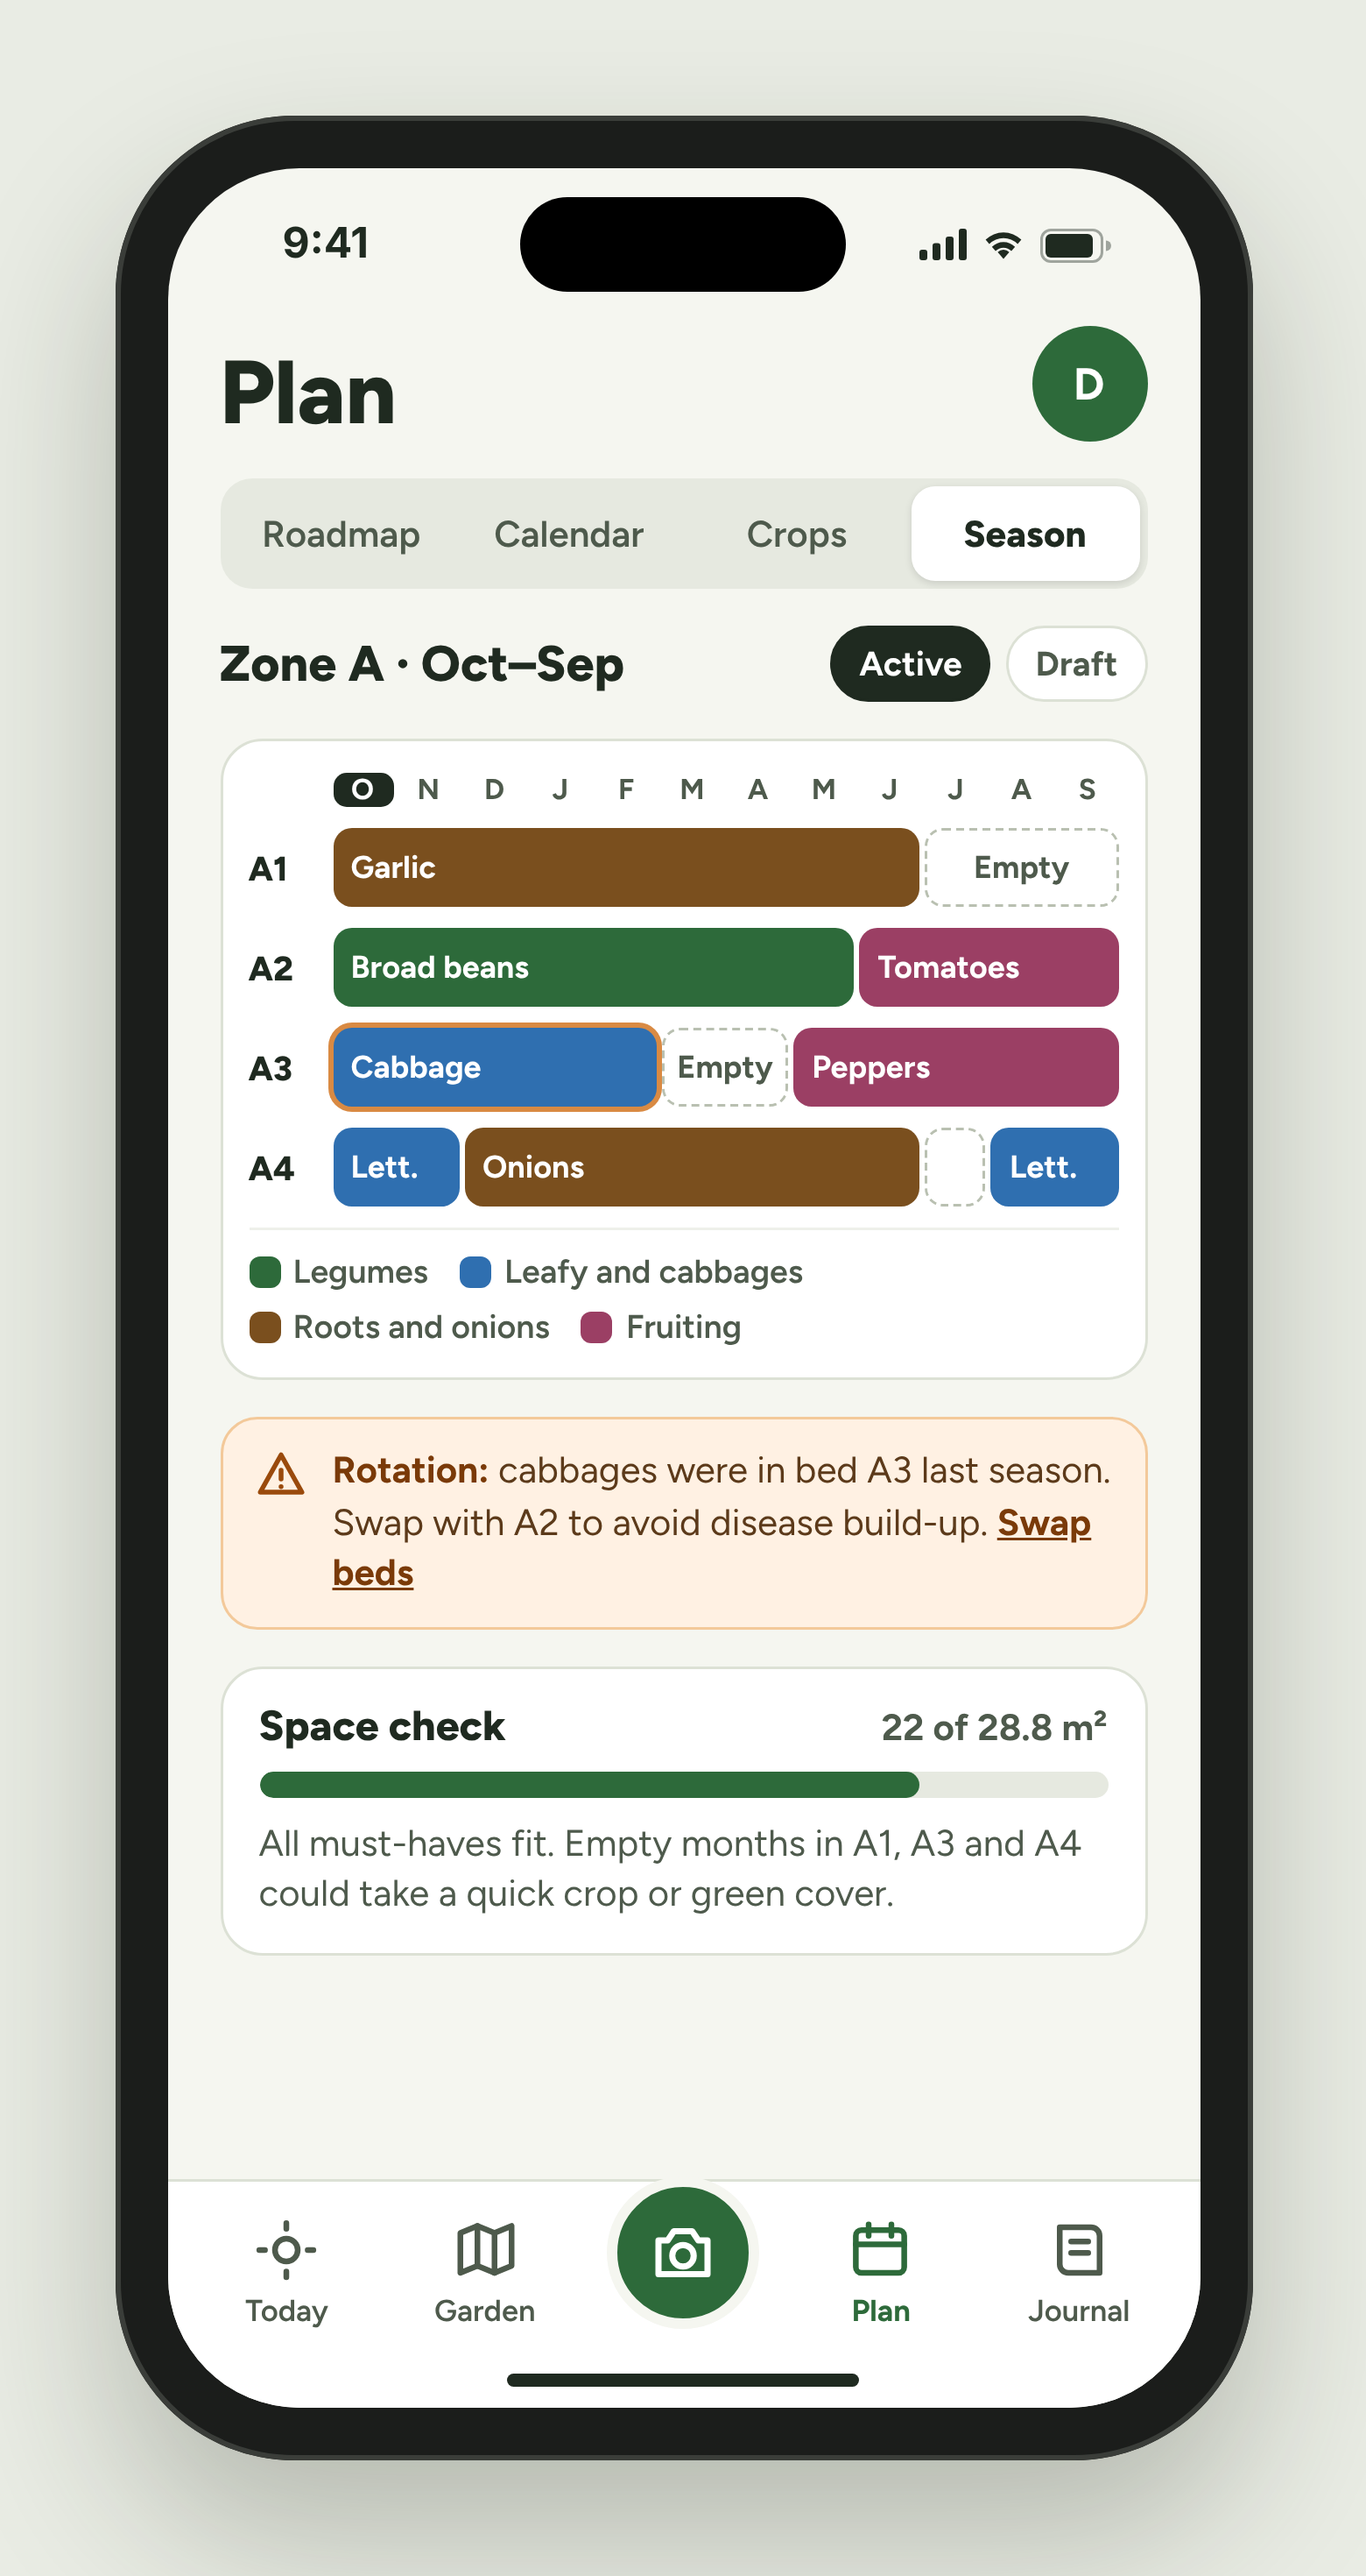
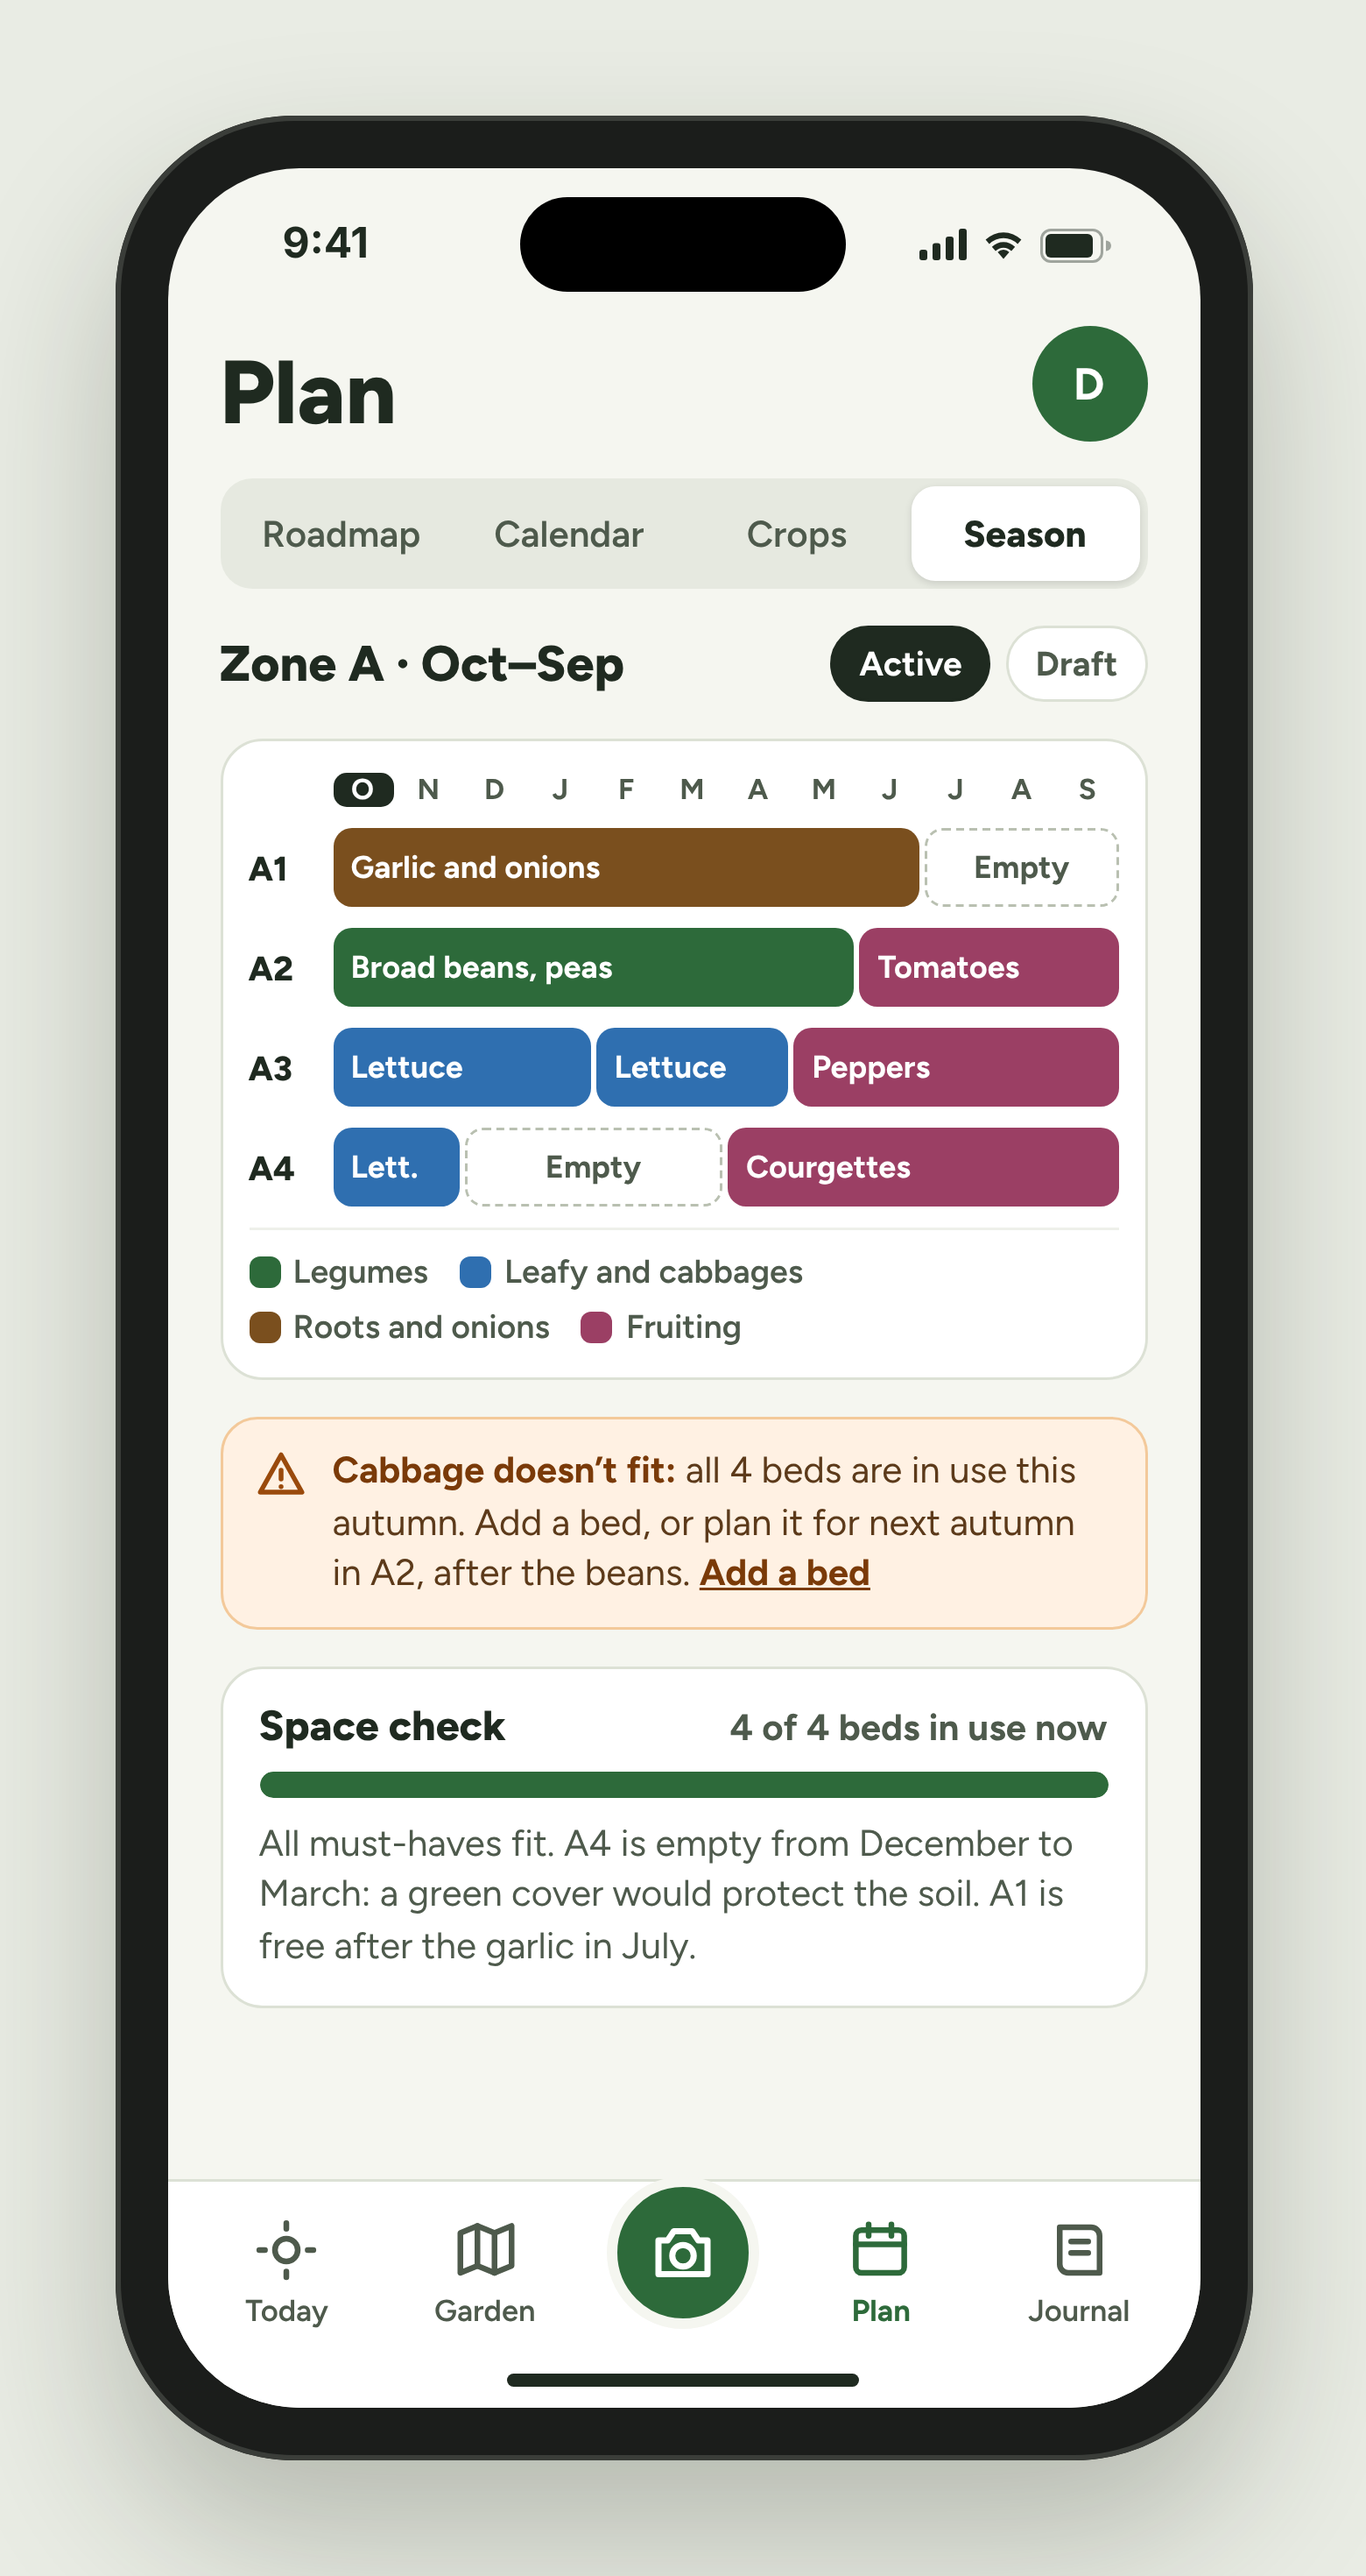
Design E6 season planner: bed timeline matches the garden, cabbage space warning, full space bar
Claude-Session: https://claude.ai/code/session_015NynAjU4naPZwzmeuGazot

diff --git a/design/source/E6-season-planner.html b/design/source/E6-season-planner.html
@@ -36,7 +36,7 @@
   .warn b { color: #7A3A08; }
   .space { background: #fff; border: 1px solid var(--line); border-radius: 16px; padding: 12px 14px; display: flex; flex-direction: column; gap: 8px; }
   .meter { height: 10px; border-radius: 5px; background: #E6E9E0; overflow: hidden; }
-  .meter i { display: block; height: 100%; width: 78%; background: var(--green); border-radius: 5px; }
+  .meter i { display: block; height: 100%; width: 100%; background: var(--green); border-radius: 5px; }
   .tabbar { position: absolute; bottom: 0; left: 0; right: 0; background: #fff; border-top: 1px solid var(--line); padding: 8px 8px 30px; display: grid; grid-template-columns: repeat(5, minmax(0, 1fr)); align-items: end; z-index: 45; }
   .tab { color: var(--muted); display: flex; flex-direction: column; align-items: center; gap: 3px; font-size: 11.5px; font-weight: 600; min-height: 48px; justify-content: flex-end; }
   .tab.on { color: var(--green); font-weight: 700; }
@@ -68,20 +68,19 @@
     <div class="gantt">
       <div class="grow mh"><span></span><span class="now">O</span><span>N</span><span>D</span><span>J</span><span>F</span><span>M</span><span>A</span><span>M</span><span>J</span><span>J</span><span>A</span><span>S</span></div>
       <div class="grow"><span class="bed">A1</span>
-        <span class="bar roo" style="grid-column: 2 / 11">Garlic</span>
+        <span class="bar roo" style="grid-column: 2 / 11">Garlic and onions</span>
         <span class="empty" style="grid-column: 11 / 14">Empty</span></div>
       <div class="grow"><span class="bed">A2</span>
-        <span class="bar leg" style="grid-column: 2 / 10">Broad beans</span>
+        <span class="bar leg" style="grid-column: 2 / 10">Broad beans, peas</span>
         <span class="bar fru" style="grid-column: 10 / 14">Tomatoes</span></div>
       <div class="grow"><span class="bed">A3</span>
-        <span class="bar bra" style="grid-column: 2 / 7; box-shadow: 0 0 0 2px #D98A43">Cabbage</span>
-        <span class="empty" style="grid-column: 7 / 9">Empty</span>
+        <span class="bar bra" style="grid-column: 2 / 6">Lettuce</span>
+        <span class="bar bra" style="grid-column: 6 / 9">Lettuce</span>
         <span class="bar fru" style="grid-column: 9 / 14">Peppers</span></div>
       <div class="grow"><span class="bed">A4</span>
         <span class="bar bra" style="grid-column: 2 / 4">Lett.</span>
-        <span class="bar roo" style="grid-column: 4 / 11">Onions</span>
-        <span class="empty" style="grid-column: 11 / 12"></span>
-        <span class="bar bra" style="grid-column: 12 / 14">Lett.</span></div>
+        <span class="empty" style="grid-column: 4 / 8">Empty</span>
+        <span class="bar fru" style="grid-column: 8 / 14">Courgettes</span></div>
       <div class="legend">
         <span><i style="background:#2D6A3A"></i>Legumes</span>
         <span><i style="background:#2F6FB0"></i>Leafy and cabbages</span>
@@ -92,13 +91,13 @@
 
     <div class="warn">
       <svg width="20" height="20" viewBox="0 0 24 24" fill="none" stroke="#9A4A0C" stroke-width="2.2" stroke-linecap="round" stroke-linejoin="round" style="flex: none; margin-top: 1px"><path d="M12 3l9.5 17h-19z"/><path d="M12 10v4M12 17.5v.01"/></svg>
-      <span><b>Rotation:</b> cabbages were in bed A3 last season. Swap with A2 to avoid disease build-up. <b style="text-decoration: underline">Swap beds</b></span>
+      <span><b>Cabbage doesn’t fit:</b> all 4 beds are in use this autumn. Add a bed, or plan it for next autumn in A2, after the beans. <b style="text-decoration: underline">Add a bed</b></span>
     </div>
 
     <div class="space">
-      <div style="display: flex; justify-content: space-between; align-items: baseline"><span style="font-size: 16px; font-weight: 800">Space check</span><span style="font-size: 14px; font-weight: 700; color: var(--muted)">22 of 28.8 m²</span></div>
+      <div style="display: flex; justify-content: space-between; align-items: baseline"><span style="font-size: 16px; font-weight: 800">Space check</span><span style="font-size: 14px; font-weight: 700; color: var(--muted)">4 of 4 beds in use now</span></div>
       <div class="meter"><i></i></div>
-      <div style="font-size: 14px; color: var(--muted); line-height: 1.4">All must-haves fit. Empty months in A1, A3 and A4 could take a quick crop or green cover.</div>
+      <div style="font-size: 14px; color: var(--muted); line-height: 1.4">All must-haves fit. A4 is empty from December to March: a green cover would protect the soil. A1 is free after the garlic in July.</div>
     </div>
   </div>
 
